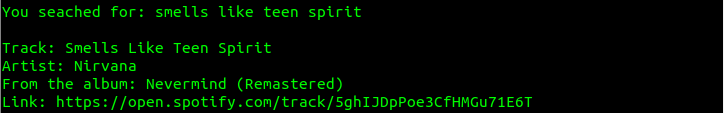
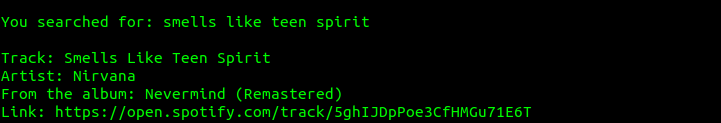
typos

diff --git a/liri.js b/liri.js
@@ -24,7 +24,7 @@ var concertFunc = function() {
 
 	axios.get(queryUrl).then(
 	  function(response) {
-		console.log("\nYou seached for: "+ artist + "\n");
+		console.log("\nYou searched for: "+ artist + "\n");
 		console.log("Where: " + response.data[0].venue.name + " in " + response.data[0].venue.city + ", " + response.data[0].venue.country);
 		console.log("When: " + moment(response.data[0].datetime).format('L'));
 
@@ -64,7 +64,7 @@ var songFunc = function() {
   		if (err) {
     			return console.log('Error occurred: ' + err);
   		}
-	        console.log("\nYou seached for: "+ query + "\n");
+	        console.log("\nYou searched for: "+ query + "\n");
 		console.log("Track: " +data.tracks.items[0].name);
 		console.log("Artist: " + data.tracks.items[0].artists[0].name);
 		console.log("From the album: " + data.tracks.items[0].album.name);
@@ -90,7 +90,7 @@ var movieFunc = function() {
 
 	axios.get(queryUrl).then(
 	  function(response) {
-	        console.log("\nYou seached for: "+ movieName + "\n");
+	        console.log("\nYou searched for: "+ movieName + "\n");
 		console.log("Title: " + response.data.Title);
 		console.log("Year: " + response.data.Year);
 		console.log("The movie's IMDB rating is: " + response.data.Ratings[0].Value);
